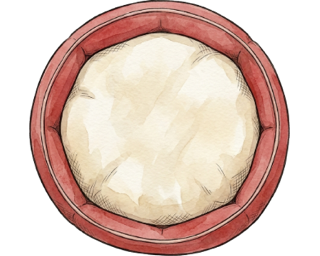
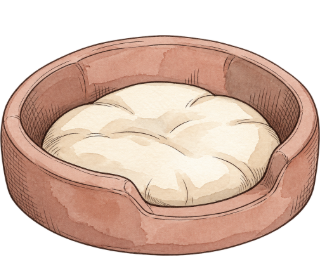
Match wall pictures and padded Dog bed to room perspective

diff --git a/talvi-pet-prototype/game/src/view/objects/wallPicture.ts b/talvi-pet-prototype/game/src/view/objects/wallPicture.ts
@@ -1,0 +1,58 @@
+import type Phaser from 'phaser';
+
+export type WallSide = 'left' | 'right';
+type Bounds = { left: number; top: number; right: number; bottom: number };
+export const PAINTING_WALL_PROFILE = {
+  version: 'painting-wall-v1',
[1 lines of base64/hex data omitted]
+  width: 128, height: 128, xScale: Math.cos(Math.PI / 6), sourceDeskew: 0.10,
+} as const;
+
+function occupiedBounds(data: Uint8ClampedArray, width: number, a = 1, b = 0, threshold = 1): Bounds {
+  const bounds = { left: Infinity, top: Infinity, right: -Infinity, bottom: -Infinity };
+  for (let i = 0; i < data.length / 4; i++) {
+    if (data[i * 4 + 3] < threshold) continue;
+    const x = i % width, y = Math.floor(i / width);
+    for (const dx of [0, 1]) for (const dy of [0, 1]) {
+      const px = a * (x + dx), py = y + dy + b * (x + dx);
+      bounds.left = Math.min(bounds.left, px); bounds.right = Math.max(bounds.right, px);
+      bounds.top = Math.min(bounds.top, py); bounds.bottom = Math.max(bounds.bottom, py);
+    }
+  }
+  if (!Number.isFinite(bounds.left)) throw new Error('Wall picture has no visible pixels');
+  return bounds;
+}
+
+export function wallPictureTexture(scene: Phaser.Scene, assetId: string, sourceHash: string, side: WallSide) {
+  const p = PAINTING_WALL_PROFILE;
+  if (assetId !== 'charms/painting' || sourceHash !== p.sourceHash) throw new Error('Wall picture requires a reviewed source/profile');
+  const source = scene.textures.get(assetId).getSourceImage() as HTMLImageElement;
+  if (source.width !== p.width || source.height !== p.height) throw new Error('Wall picture source must be 128×128');
+  const canvas = document.createElement('canvas'); canvas.width = p.width; canvas.height = p.height;
+  const ctx = canvas.getContext('2d', { willReadFrequently: true })!;
+  ctx.drawImage(source, 0, 0);
+  const data = ctx.getImageData(0, 0, p.width, p.height).data;
+  const left = occupiedBounds(data, p.width, p.xScale, -0.5 - p.sourceDeskew);
+  const right = occupiedBounds(data, p.width, p.xScale, 0.5 - p.sourceDeskew);
+  const scale = Math.min(1, p.width / Math.max(left.right - left.left, right.right - right.left),
+    p.height / Math.max(left.bottom - left.top, right.bottom - right.top));
+  const projected = side === 'left' ? left : right, b = (side === 'left' ? -0.5 : 0.5) - p.sourceDeskew;
+  const tx = p.width / 2 - scale * (projected.left + projected.right) / 2, ty = p.height - scale * projected.bottom;
+  const key = `__derived/${p.version}/${sourceHash}/${side}`;
+  if (!scene.textures.exists(key)) {
+    const texture = scene.textures.createCanvas(key, p.width, p.height);
+    if (!texture) throw new Error('Unable to allocate wall picture texture');
+    const out = texture.getContext();
+    out.imageSmoothingEnabled = true; out.imageSmoothingQuality = 'high';
+    out.setTransform(scale * p.xScale, scale * b, 0, scale, tx, ty);
+    out.drawImage(source, 0, 0); out.resetTransform(); texture.refresh();
+  }
+  const output = scene.textures.get(key) as Phaser.Textures.CanvasTexture;
+  const rgba = output.getContext().getImageData(0, 0, p.width, p.height).data;
+  const alphaBounds = occupiedBounds(rgba, p.width), opaqueBounds = occupiedBounds(rgba, p.width, 1, 0, 128);
+  return { key, evidence: { profile: p.version, sourceHash, side, canvas: [p.width, p.height],
+    matrix: [scale * p.xScale, scale * b, 0, scale, tx, ty], commonScale: scale,
+    sourceBounds: occupiedBounds(data, p.width), projected, alphaBounds, opaqueBounds,
+    sideMargins: [alphaBounds.left, p.width - alphaBounds.right],
+    bottomGap: p.height - alphaBounds.bottom, centreOffset: Math.abs((alphaBounds.left + alphaBounds.right) / 2 - p.width / 2) } };
+}

diff --git a/talvi-pet-prototype/game/tools/asset-trial.ts b/talvi-pet-prototype/game/tools/asset-trial.ts
@@ -2,13 +2,16 @@
 // this explicitly authorized, development-only entrypoint inspects Phaser textures.
 // eslint-disable-next-line no-restricted-imports
 import Phaser from 'phaser';
+// Bounded diagnostic uses the maintained world-view component.
+// eslint-disable-next-line no-restricted-imports
+import { CharmSprite } from '../src/view/objects/CharmSprite';
 import { AssetManifest, type AssetEntry } from '../src/content/schema/assets';
 import { RoomSchema, type Room } from '../src/content/schema/room';
 import { CharmsSchema } from '../src/content/schema/charms';
 import './asset-trial.css';
 
 type LoadRow = { id: string; status: string; url?: string; source?: string; ledgerHash?: string; actualHash?: string; hashMatches?: boolean; declared?: { w: number; h: number }; decoded?: { w: number; h: number }; textureSource?: string; error?: string };
-type Placement = { slot: string; id: string; sizeClass: string; x: number; y: number; depth: number; w: number; h: number };
+type Placement = { slot: string; id: string; sizeClass: string; x: number; y: number; depth: number; w: number; h: number; textureKey: string; wallProjection?: CharmSprite['wallProjection'] };
 const params = new URLSearchParams(location.search);
 const height = params.get('height') === '823' ? 823 : 1080;
 const mode = params.get('mode') === 'room' ? 'room' : 'fill';
@@ -109,8 +112,10 @@ async function start(): Promise<void> {
       if (mode === 'fill') for (const slot of room.slots) {
         const charm = charms.types.find(c => c.sizeClass === slot.sizeClass && ids.includes(c.sprite));
         if (!charm || !this.textures.exists(charm.sprite)) { report.missingSlots.push(slot.id); continue; }
-        const sprite = this.add.image(slot.x, slot.y, charm.sprite).setOrigin(0.5, 1).setDepth(slot.depthOverride ?? slot.y);
-        report.placements.push({ slot: slot.id, id: charm.sprite, sizeClass: slot.sizeClass, x: slot.x, y: slot.y, depth: sprite.depth, w: sprite.width, h: sprite.height });
+        const sourceHash = report.assets.find(a => a.id === charm.sprite)?.actualHash ?? '';
+        const sprite = new CharmSprite(this, slot.x, slot.y, charm.sprite,
+          slot.wall && charm.sprite === 'charms/painting' ? { side: slot.wall, sourceHash } : undefined).setDepth(slot.depthOverride ?? slot.y);
+        report.placements.push({ slot: slot.id, id: charm.sprite, sizeClass: slot.sizeClass, x: slot.x, y: slot.y, depth: sprite.depth, w: sprite.width, h: sprite.height, textureKey: sprite.texture.key, wallProjection: sprite.wallProjection });
         if (bounds) this.add.graphics().lineStyle(2, 0xae3b91, 0.8).strokeRect(slot.x - sprite.width / 2, slot.y - sprite.height, sprite.width, sprite.height).setDepth(9999);
       }
       if (guides) drawGuides(this, room);
@@ -120,6 +125,7 @@ async function start(): Promise<void> {
       refreshReport();
     }
   }
-  new Phaser.Game({ type: Phaser.WEBGL, parent: 'game', backgroundColor: '#eee9df', scale: { mode: Phaser.Scale.FIT, width: 1920, height, autoCenter: Phaser.Scale.CENTER_BOTH }, render: { antialias: true, roundPixels: false, pixelArt: false }, audio: { noAudio: true }, scene: [AssetTrialScene] });
+  const game = new Phaser.Game({ type: Phaser.WEBGL, parent: 'game', backgroundColor: '#eee9df', scale: { mode: Phaser.Scale.FIT, width: 1920, height, autoCenter: Phaser.Scale.CENTER_BOTH }, render: { antialias: true, roundPixels: false, pixelArt: false }, audio: { noAudio: true }, scene: [AssetTrialScene] });
+  Object.assign(window, { assetTrialGame: game });
 }
 void start().catch(error => { report.phase = 'failed'; report.fatal = String(error); element('status').textContent = `Inspection stopped: ${report.fatal}`; refreshReport(); });

diff --git a/talvi-pet-prototype/game/src/view/objects/CharmSprite.ts b/talvi-pet-prototype/game/src/view/objects/CharmSprite.ts
@@ -1,5 +1,12 @@
 import Phaser from 'phaser';
 import { depthAtBase } from '../depth';
+import { wallPictureTexture, type WallSide } from './wallPicture';
 export class CharmSprite extends Phaser.GameObjects.Image {
-  constructor(scene: Phaser.Scene, x: number, y: number, key: string) { super(scene, x, y, key); scene.add.existing(this); this.setOrigin(0.5, 1).setDepth(depthAtBase(y)); }
+  readonly wallProjection?: ReturnType<typeof wallPictureTexture>['evidence'];
+  constructor(scene: Phaser.Scene, x: number, y: number, key: string, wall?: { side: WallSide; sourceHash: string }) {
+    const projection = wall ? wallPictureTexture(scene, key, wall.sourceHash, wall.side) : undefined;
+    super(scene, x, y, projection?.key ?? key);
+    this.wallProjection = projection?.evidence;
+    scene.add.existing(this); this.setOrigin(0.5, 1).setDepth(depthAtBase(y));
+  }
 }
